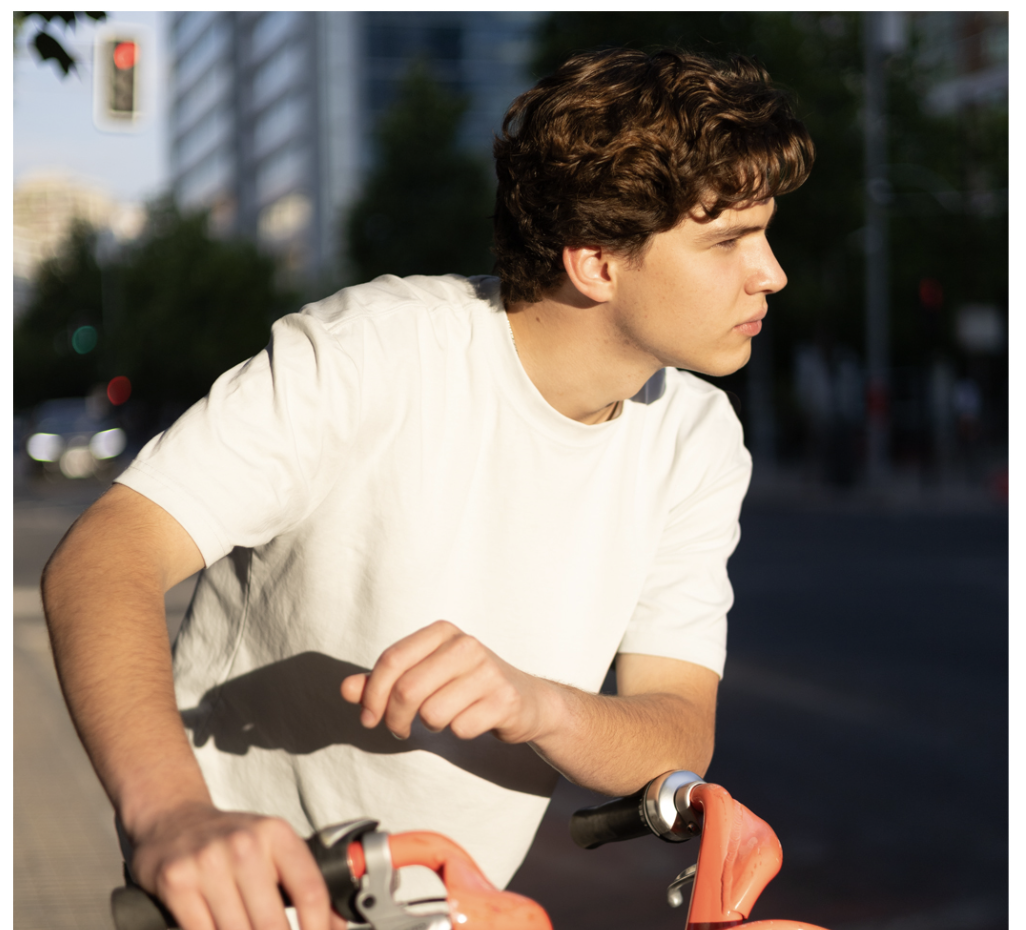
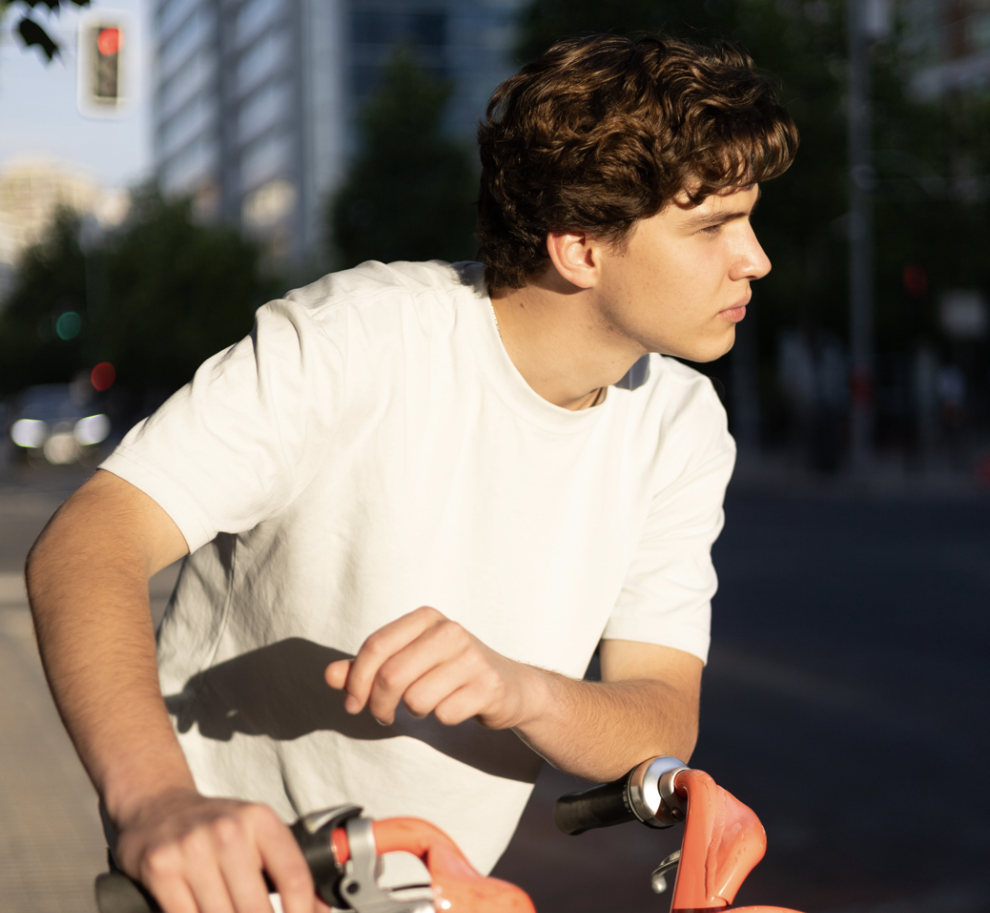
Crop the white/dark border out of the 12 real photos
Each of the 12 photos (leftover from being cropped out of Instagram
screenshots) had a thin border on one or more edges - mostly a ~10-20px
off-white margin, sometimes preceded by a 2-4px dark keyline. Measured the
exact border per side per photo (not uniform across the set) and cropped
just that margin plus a 3px safety buffer, so the photos now bleed edge to
edge with nothing of the actual frame lost.

diff --git a/bernardo-site/AGENTS.md b/bernardo-site/AGENTS.md
@@ -303,6 +303,16 @@ diseño.
    server** — este entorno no tiene Node.js instalado; falta correr `npm install && npm run
    dev` y revisar visualmente antes de dar esto por bueno.
 
+**Checkpoint 7 (13 jul 2026, más tarde):** Ramón notó una franja blanca molesta en las 12 fotos
+y pidió recortarla. Las 12 tenían un borde (~10-20px, blanco/gris claro y a veces un filete
+negro de 2-4px antes del blanco) en uno o más lados — resto del recorte/estilo de Instagram
+del Checkpoint 4, no un problema del sitio. Se midió pixel a pixel el grosor real de cada
+lado por foto (no un valor fijo para las 12: cada una traía un borde distinto) y se recortó
+justo ese margen + 3px de seguridad, directo sobre `src/assets/fotos/*.png`. Verificado
+visualmente que las 12 quedaron a sangre completa, sin franja ni filete, sin comerse nada del
+encuadre real. Copia de las 12 fotos originales (pre-recorte) respaldada en el scratchpad de
+la sesión por si hace falta volver atrás — no vive en este repo.
+
 ### Pendiente de Bernardo (Fase 1, bloqueando Fase 2 completa)
 
 - Fotografías reales (series + encargos), hasta 60 por galería.
